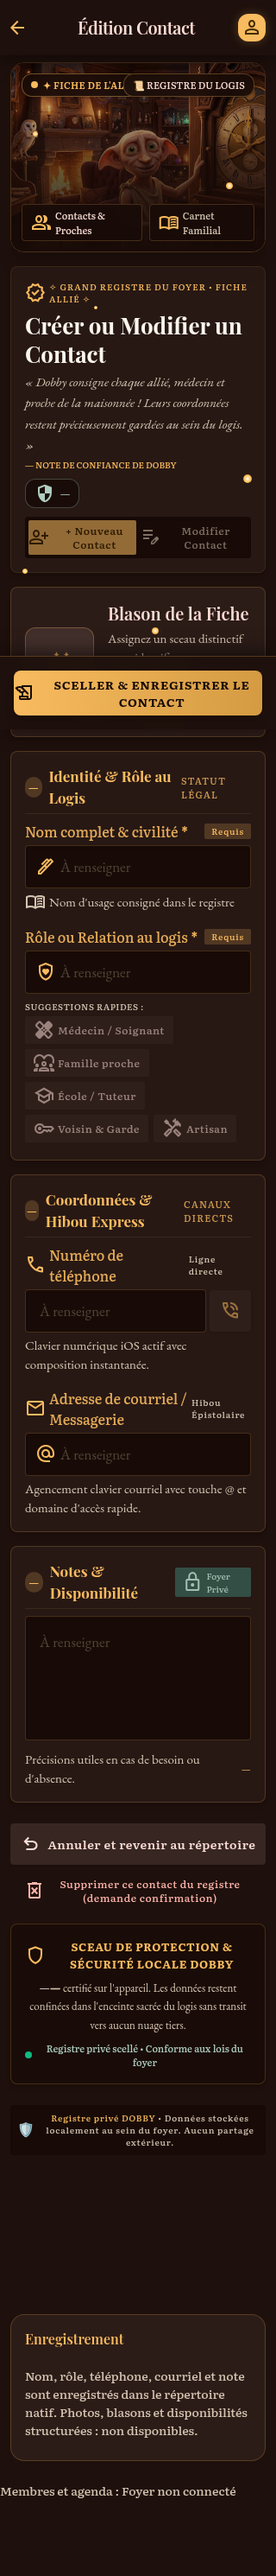
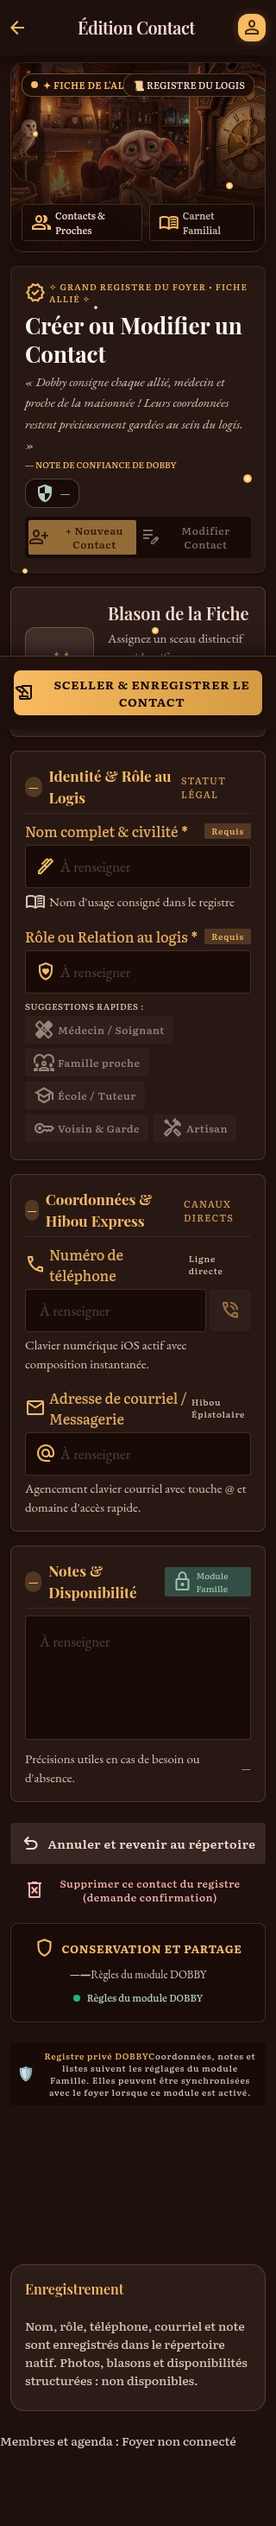
fix(stitch): align contact disclosures with native family sharing

diff --git a/essai-stitch-v7/family-register.js b/essai-stitch-v7/family-register.js
@@ -11,6 +11,7 @@
  function clearEmpty(){for(const e of all('main [id*=empty],main [id*=Empty]'))e.remove();}
  function hideFilters(reason){for(const b of all('main button'))if(/Tous|Proches|Praticiens|Artisans|Épingl|Archives|Tout ouvrir|Tout sceller|Catégor/.test(b.textContent)&&!b.dataset.faAction)context.unavailable(b,reason);}
  function meta(scope){q('main [data-rg-state]')?.remove();const el=box('Enregistrement');el.dataset.rgState='true';el.append(note(scope));if(['contacts','lists','list-detail'].includes(context.ui.view)){el.append(button('account','Gérer le foyer'));el.append(button('family-sync','Synchroniser le module Famille'));if(/conflit/i.test(context.data.status))el.append(button('family-server','Conserver la version du foyer'),button('family-local','Conserver mes modifications'));}context.main.append(el);}
+ function sourcePolicy(view,root=context.main){const local=['memos','memo-edit'].includes(view),policy=local?'Titre, texte et mots-clés restent dans les mémos locaux de cet appareil. Ces mémos ne sont pas partagés par le module Famille.':'Coordonnées, notes et listes suivent les réglages du module Famille. Elles peuvent être synchronisées avec le foyer lorsque ce module est activé.';const walk=document.createTreeWalker(root,NodeFilter.SHOW_TEXT);let node;while(node=walk.nextNode()){const value=node.textContent.replace(/\s+/g,' ').trim();if(/SCEAU DE PROTECTION.*LOCALE DOBBY/i.test(value))node.textContent='Conservation et partage';else if(/Foyer Privé/i.test(value))node.textContent=local?'Mémo local':'Module Famille';else if(/Registre privé scellé|certifié sur l.appareil|Conforme aux lois du foyer/i.test(value))node.textContent='Règles du module DOBBY';else if(/restent confinées|sans transit|Aucun partage extérieur|Données stockées localement/i.test(value))node.textContent=policy;}}
  function setTitle(value){const h=q('main h1')||q('main h2');if(h)h.textContent=value;}
  function formButtons(){R.saveButton();for(const b of all('main button,#fa-supplement button')){if(b.dataset.faAction)continue;if(/Annuler|Revenir|Retour/.test(b.textContent))bind(b,'rg-back');if(/Supprimer|Biffer cette mention/.test(b.textContent))bind(b,'rg-delete');}}
  function contacts(data){clearEmpty();const container=q('#contactsContainer');container.replaceChildren();const roles=[...new Set(data.state.famContacts.map(row=>row.role).filter(Boolean))];if(!roles.includes(contactRole))contactRole='';const allButton=all('main button').find(b=>R.plain(b).startsWith('Tous'));if(allButton)R.facet(allButton.parentElement,roles,contactRole,'rg-contact-role','Tous ('+data.state.famContacts.length+')');const rows=data.state.famContacts.filter(r=>(!contactRole||r.role===contactRole)&&[r.name,r.role,r.note,r.phone,r.email].join(' ').toLocaleLowerCase('fr').includes(filter.contacts.toLocaleLowerCase('fr')));
@@ -25,8 +26,8 @@
  function listDetail(data){const row=requireRow(data.state.famLists,context.ui.record);if(!row){context.main.replaceChildren(note('Choisissez une liste dans le registre.'),button('lists','Mes listes'));return;}context.main.dataset.rgListSnapshot=JSON.stringify(row.items);context.main.dataset.rgListId=row.id;setTitle(row.name);const pending=q('#sectionPending'),done=q('#sectionDone');for(const [container,completed]of [[pending,false],[done,true]]){if(!container)continue;container.replaceChildren(note(completed?'Éléments cochés':'Éléments à traiter'));row.items.forEach((item,index)=>{if(item.done!==completed)return;container.append(card(completed?'.done-card':'.todo-card',item.name,[],[button('rg-item-toggle',item.done?'Rouvrir':'Cocher',{index:String(index),record:row.id}),button('rg-item-remove','Retirer',{index:String(index),record:row.id})]));});if(!row.items.some(i=>i.done===completed))container.append(note('Aucun élément.'));}const form=q('#quickAddForm');if(form){form.before(button('rg-list-refresh','Actualiser cette liste',{record:row.id}));form.addEventListener('submit',e=>{e.preventDefault();R.run(addItem);});q('#itemInput').maxLength=160;form.append(button('rg-item-add','Ajouter à la liste'));}for(const b of all('main button,#fa-supplement button'))if(/Revenir aux listes/.test(b.textContent))bind(b,'lists');for(const sec of all('main section'))if(sec.textContent.includes('Aperçu : Si la besace'))sec.remove();meta('Liste du module Famille · '+data.status+'. Les coches restent enregistrées avec le gestionnaire existant.');}
  function ensureListSnapshot(id,element){const row=E.read().state.famLists.find(r=>r.id===id),main=element.closest('main');if(!row||main?.dataset.rgListId!==id||main.dataset.rgListSnapshot!==JSON.stringify(row.items))throw Error('Cette liste a été modifiée depuis son affichage. Actualisez-la avant de cocher ou de retirer un élément.');}
  function addItem(){const value=q('#itemInput')?.value.trim();if(!value)throw Error('Indiquez un élément.');nativeList(context.ui.record);E.win().document.getElementById('xListInput').value=value;E.action('extra','listadd',{id:context.ui.record});return target('list-detail',context.ui.record);}
- function newList(){const old=q('#rg-list-create-box');if(old){q('#list-name')?.focus();return;}for(const node of all('#new-list-form'))node.remove();const proto=q('#new-list-form',context.pristine);if(!proto)throw Error('Formulaire Stitch introuvable.');const form=document.importNode(proto,true);form.id='rg-form';form.dataset.sourceForm='new-list-form';const panel=box('Créer une liste');panel.id='rg-list-create-box';panel.append(form);const input=q('#list-name',form);input.name='name';input.value='';input.required=true;input.maxLength=140;for(const el of all('input[type=radio],select',form))context.unavailable(el,'Catégorie et attribution non enregistrées.');form.append(button('rg-list-create','Créer la liste'));context.main.prepend(panel);form.addEventListener('submit',e=>{e.preventDefault();R.run(createList);});input.focus();}
+ function newList(){const old=q('#rg-list-create-box');if(old){q('#list-name')?.focus();return;}for(const node of all('#new-list-form'))node.remove();const proto=q('#new-list-form',context.pristine);if(!proto)throw Error('Formulaire Stitch introuvable.');const form=document.importNode(proto,true);sourcePolicy('lists',form);form.id='rg-form';form.dataset.sourceForm='new-list-form';const panel=box('Créer une liste');panel.id='rg-list-create-box';panel.append(form);const input=q('#list-name',form);input.name='name';input.value='';input.required=true;input.maxLength=140;for(const el of all('input[type=radio],select',form))context.unavailable(el,'Catégorie et attribution non enregistrées.');form.append(button('rg-list-create','Créer la liste'));context.main.prepend(panel);form.addEventListener('submit',e=>{e.preventDefault();R.run(createList);});input.focus();}
  function createList(){const input=q('#list-name');if(!input?.reportValidity())return;if(!input.value.trim())throw Error('Indiquez un nom de liste.');const before=E.read().state.famLists.map(x=>x.id);nativeList();E.submit('xListForm',{name:input.value});const row=E.read().state.famLists.find(x=>!before.includes(x.id));if(!row)throw Error('La liste n’a pas été créée.');return target('list-detail',row.id);}
  function remove(kind,id){if(kind==='contact')E.deleteContact(id);else if(kind==='memo'){nativeNotes(id);E.action('doc','deletenote',{id});}else{nativeList();E.action('extra','listdelete',{id});}return target(kind==='contact'?'contacts':kind==='memo'?'memos':'lists');}
- R.register({views,back(view){return target(view==='contact-edit'?'contacts':view==='memo-edit'?'memos':view==='list-detail'?'lists':'salon');},render(view,c){context=c;if((view==='contact-edit'&&c.ui.record&&!c.data.state.famContacts.some(x=>x.id===c.ui.record))||(view==='memo-edit'&&c.ui.record&&!c.data.state.familyNotes.some(x=>x.id===c.ui.record))||(view==='list-detail'&&c.ui.record&&!c.data.state.famLists.some(x=>x.id===c.ui.record))){c.ui.record=null;c.main.replaceChildren(note('Contact, mémo ou liste introuvable : cette fiche n’existe plus.'),button(view==='contact-edit'?'contacts':view==='memo-edit'?'memos':'lists','Revenir au registre'));return;}({contacts, 'contact-edit':contactEdit,memos,'memo-edit':memoEdit,lists,'list-detail':listDetail})[view](c.data);},act(action,el,c){context={...context,...c};const id=el.dataset.record||context.ui.record;if(action==='rg-memo-query-clear'){filter.memos='';return memos(E.read());}if(action==='rg-contact-query-clear'){filter.contacts='';return contacts(E.read());}if(action==='rg-contact-role'){contactRole=el.dataset.value;return contacts(E.read());}if(action==='rg-back')return target(context.ui.view.startsWith('contact')?'contacts':context.ui.view.startsWith('memo')?'memos':'lists');if(action==='rg-contact-new')return target('contact-edit');if(action==='rg-memo-new')return target('memo-edit');if(action==='rg-contact-edit')return target('contact-edit',id);if(action==='rg-memo-edit')return target('memo-edit',id);if(action==='rg-list-open')return target('list-detail',id);if(action==='rg-list-refresh'){const draft=q('#itemInput')?.value||'';return context.open('list-detail',{record:id},false).then(()=>{const input=q('#itemInput');if(input)input.value=draft;});}if(action==='rg-list-new')return newList();if(action==='rg-list-create')return createList();if(action==='rg-item-add')return addItem();if(action==='rg-item-remove'){ensureListSnapshot(id,el);nativeList(id);E.action('extra','listremove',{id,i:el.dataset.index});return target('list-detail',id);}if(action==='rg-item-toggle'){ensureListSnapshot(id,el);nativeList(id);const check=E.win().document.querySelector('[data-list-check][data-i="'+Number(el.dataset.index)+'"]');if(!check)throw Error('Élément introuvable.');check.checked=!check.checked;check.dispatchEvent(new (E.win().Event)('change',{bubbles:true}));return target('list-detail',id);}if(action==='rg-delete')return remove(context.ui.view.startsWith('contact')?'contact':'memo',id);if(action==='rg-contact-delete')return remove('contact',id);if(action==='rg-memo-delete')return remove('memo',id);if(action==='rg-list-delete')return remove('list',id);},submit(form,c){context={...context,...c};const values=Object.fromEntries(new FormData(form));if(c.ui.view==='contact-edit'){E.saveContact(c.ui.record,values);window.DobbyFamilyStitch.discardDraft();filter.contacts='';contactRole='';return target('contacts');}if(c.ui.view==='memo-edit'){nativeSaveMemo(c.ui.record,values);window.DobbyFamilyStitch.discardDraft();return target('memos');}return createList();}});
+ R.register({views,back(view){return target(view==='contact-edit'?'contacts':view==='memo-edit'?'memos':view==='list-detail'?'lists':'salon');},render(view,c){context=c;sourcePolicy(view);if((view==='contact-edit'&&c.ui.record&&!c.data.state.famContacts.some(x=>x.id===c.ui.record))||(view==='memo-edit'&&c.ui.record&&!c.data.state.familyNotes.some(x=>x.id===c.ui.record))||(view==='list-detail'&&c.ui.record&&!c.data.state.famLists.some(x=>x.id===c.ui.record))){c.ui.record=null;c.main.replaceChildren(note('Contact, mémo ou liste introuvable : cette fiche n’existe plus.'),button(view==='contact-edit'?'contacts':view==='memo-edit'?'memos':'lists','Revenir au registre'));return;}({contacts, 'contact-edit':contactEdit,memos,'memo-edit':memoEdit,lists,'list-detail':listDetail})[view](c.data);},act(action,el,c){context={...context,...c};const id=el.dataset.record||context.ui.record;if(action==='rg-memo-query-clear'){filter.memos='';return memos(E.read());}if(action==='rg-contact-query-clear'){filter.contacts='';return contacts(E.read());}if(action==='rg-contact-role'){contactRole=el.dataset.value;return contacts(E.read());}if(action==='rg-back')return target(context.ui.view.startsWith('contact')?'contacts':context.ui.view.startsWith('memo')?'memos':'lists');if(action==='rg-contact-new')return target('contact-edit');if(action==='rg-memo-new')return target('memo-edit');if(action==='rg-contact-edit')return target('contact-edit',id);if(action==='rg-memo-edit')return target('memo-edit',id);if(action==='rg-list-open')return target('list-detail',id);if(action==='rg-list-refresh'){const draft=q('#itemInput')?.value||'';return context.open('list-detail',{record:id},false).then(()=>{const input=q('#itemInput');if(input)input.value=draft;});}if(action==='rg-list-new')return newList();if(action==='rg-list-create')return createList();if(action==='rg-item-add')return addItem();if(action==='rg-item-remove'){ensureListSnapshot(id,el);nativeList(id);E.action('extra','listremove',{id,i:el.dataset.index});return target('list-detail',id);}if(action==='rg-item-toggle'){ensureListSnapshot(id,el);nativeList(id);const check=E.win().document.querySelector('[data-list-check][data-i="'+Number(el.dataset.index)+'"]');if(!check)throw Error('Élément introuvable.');check.checked=!check.checked;check.dispatchEvent(new (E.win().Event)('change',{bubbles:true}));return target('list-detail',id);}if(action==='rg-delete')return remove(context.ui.view.startsWith('contact')?'contact':'memo',id);if(action==='rg-contact-delete')return remove('contact',id);if(action==='rg-memo-delete')return remove('memo',id);if(action==='rg-list-delete')return remove('list',id);},submit(form,c){context={...context,...c};const values=Object.fromEntries(new FormData(form));if(c.ui.view==='contact-edit'){E.saveContact(c.ui.record,values);window.DobbyFamilyStitch.discardDraft();filter.contacts='';contactRole='';return target('contacts');}if(c.ui.view==='memo-edit'){nativeSaveMemo(c.ui.record,values);window.DobbyFamilyStitch.discardDraft();return target('memos');}return createList();}});
 })();

diff --git a/docs/dobby-v7/FINAL-REVIEW.md b/docs/dobby-v7/FINAL-REVIEW.md
@@ -9,9 +9,9 @@ Une seule revue indépendante, en lecture seule, couvre `152cb89..9ee2d0c`. Aucu
 | Un index d’élément périmé après synchronisation ciblait un autre élément | Comparer la liste affichée à la liste native avant coche/retrait ; refuser l’ambiguïté, proposer une actualisation qui conserve le texte d’ajout non envoyé | `list-rg-item-toggle`, `list-rg-item-remove` |
 | Menu puis retour navigateur perdaient les modifications d’un formulaire | Brouillons transitoires par foyer/route/identifiant ; restaurer les champs modifiés sur les données natives récentes, sans fichier, ID caché ou contrôle désactivé | `menu-member-draft`, `menu-contact-draft`, `menu-medical-draft` ; note reçue du foyer conservée, dossier privé non partagé |
 | Une pièce jointe effaçait l’entretien en cours de saisie | Protéger le formulaire d’entretien du rafraîchissement de fond et conserver sa saisie lors de l’actualisation explicite des pièces | `maintenance-file-draft` : note/date/coche/prochaine date, aucun entretien enregistré automatiquement |
-| Les sources affirmaient une police active, un Grand Salon et une certification sans données correspondantes | Retirer le badge de statut non géré, lier la pièce au lieu natif, afficher le libellé réel de l’historique | `source-facts`, `maintenance-source-facts` : contrat échu et équipement Garage |
+| Les sources affirmaient une police active, un Grand Salon, une certification et un stockage Contacts exclusivement local sans données correspondantes | Retirer le badge de statut non géré, lier la pièce au lieu natif, afficher le libellé réel de l’historique et les règles effectives du module Famille | `source-facts`, `maintenance-source-facts`, `contact-sharing-disclosure` : contrat échu, équipement Garage et portée native des Contacts |
 
-Les treize scénarios ont échoué avant correction à 390 px, puis réussi à **320 et 390 px** (26 contrôles). Les 54 tests natifs réussissent. La validation générale locale réussit intégralement (code de sortie 0, aucun échec). Elle est exécutée avec `CHROMIUM_PATH=/usr/bin/chromium npm test --prefix essai-stitch-v7/tests`, `ci-scope.json.final=true` ; le statut et le SHA exacts de la CI finale sont publiés dans la PR #3 et le bilan de livraison. [Captures complémentaires](evidence/review/README.md), [comparaisons de toutes les sources](evidence/index.html).
+Les quatorze scénarios ont échoué avant correction à 390 px, puis réussi à **320 et 390 px** (28 contrôles). Les 54 tests natifs réussissent. La validation générale locale réussit intégralement (code de sortie 0, aucun échec). Elle est exécutée avec `CHROMIUM_PATH=/usr/bin/chromium npm test --prefix essai-stitch-v7/tests`, `ci-scope.json.final=true` ; le statut et le SHA exacts de la CI finale sont publiés dans la PR #3 et le bilan de livraison. [Captures complémentaires](evidence/review/README.md), [comparaisons de toutes les sources](evidence/index.html).
 
 La relecture a aussi vérifié les empreintes des 30 nouveaux templates et des 12 fichiers de runtime, les comptes 53/24/29 et l’absence de diff V5/originaux/SQL dans cette mission.
 
@@ -22,3 +22,5 @@ La présentation n’annule ni ne réécrit une opération IndexedDB déjà lanc
 ## Périmètres laissés hors qualification
 
 La restauration destructive et les comptes réels sont exclus par la demande. Les dépendances minifiées héritées sont contrôlées par leur provenance et leur chargeur, sans audit de sécurité exhaustif. Les détails métier Cuisine inchangés ne sont pas réaudités ; les routes partagées modifiées et les régressions générales sont vérifiées. Les fonctions natives absentes restent partielles, avec un état explicite. [Décisions et coûts](DECISIONS.md).
+
+Le contrôle visuel de clôture a complété le sixième constat avec les promesses de stockage Contacts exclusivement local. Ce scénario supplémentaire a échoué avant correction, puis réussi aux deux largeurs. Les textes sources sont neutralisés avant le raccordement des valeurs du foyer ; ils ne modifient ni les données ni le partage. Le parcours 2B, les comparaisons de ses six sources et la synchronisation native simulée ont été revérifiés après ce complément.

diff --git a/docs/dobby-v7/CHECKPOINTS.md b/docs/dobby-v7/CHECKPOINTS.md
@@ -65,8 +65,10 @@ Checkpoint d’implémentation lot 5 : `9ee2d0c536c4bd28861b4cd010c46111300ca7a2
 
 ## Revue finale et qualification générale
 
-La revue indépendante du checkpoint `9ee2d0c` a relevé six problèmes importants, tous reproduits avant correction puis vérifiés dans la même passe, à 320 et 390 px. Treize scénarios dédiés passent (26 contrôles), ainsi que les 54 tests natifs. [Constats, corrections et limites](FINAL-REVIEW.md), [preuves](evidence/review/README.md), [décisions](DECISIONS.md).
+La revue indépendante du checkpoint `9ee2d0c` a relevé six problèmes importants, tous reproduits avant correction puis vérifiés dans la même passe, à 320 et 390 px. Quatorze scénarios dédiés passent (28 contrôles), ainsi que les 54 tests natifs. [Constats, corrections et limites](FINAL-REVIEW.md), [preuves](evidence/review/README.md), [décisions](DECISIONS.md).
 
 La CI est désormais configurée pour exécuter l’ensemble des tests Cuisine/Famille/2B/Maison/Documents/outils, les synchronisations simulées, les contrôles de préservation, la navigation, les comparaisons mobiles et les régressions de la revue. Le résultat général et le SHA exact du commit de livraison seront reportés dans la description de la PR et son onglet [Checks](https://github.com/PortenartCo/dobby-demo/pull/3/checks), sans prétendre qualifier les comptes réels ou une restauration exécutée.
 
-La suite générale locale a terminé avec succès, code de sortie 0 : Cuisine, 2A, quatre lots restants, clients natifs/API simulée, extraction réelle PDF/OCR, préservation et navigation ; les 26 contrôles de revue passent. La génération de 59 fichiers est reproductible octet pour octet. La qualification CI automatique du candidat corrigé est l’étape externe suivante.
+La suite générale locale a terminé avec succès, code de sortie 0 : Cuisine, 2A, quatre lots restants, clients natifs/API simulée, extraction réelle PDF/OCR, préservation et navigation ; les 28 contrôles de revue passent. La génération de 59 fichiers est reproductible octet pour octet. La qualification CI automatique du candidat corrigé est l’étape externe suivante.
+
+Qualification générale du candidat corrigé `bb20998fb47dd89cca3e0977cc6d8804661949f2` : CI [PR — succès](https://github.com/PortenartCo/dobby-demo/actions/runs/42614964029), [push — succès](https://github.com/PortenartCo/dobby-demo/actions/runs/42614954366). Le contrôle visuel a ensuite corrigé le texte de conservation Contacts dans la même catégorie de revendications fictives. Les quatorze reproductions (28 contrôles), le parcours 2B, ses six comparaisons et le client de synchronisation simulé passent après ce complément. Le SHA de livraison et sa dernière CI générale sont publiés dans le bilan de PR #3 et son onglet Checks, sans commit documentaire auto-référentiel.

diff --git a/docs/dobby-v7/INTEGRATION.md b/docs/dobby-v7/INTEGRATION.md
@@ -128,6 +128,8 @@ Deux contrôles supplémentaires vérifient la saisie réelle au clavier dans la
 
 ## Revue finale des lots 2B–5
 
-[La revue indépendante](FINAL-REVIEW.md) a produit six constats importants, corrigés avec treize reproductions à 320/390. Les éditeurs refusent de recréer une fiche supprimée, les listes ne dispatchent plus un index devenu ambigu, les brouillons restent disponibles après menu/retour et ajout d’une pièce jointe, et les revendications fictives restantes sont retirées. Les brouillons sont uniquement en mémoire de présentation ; seuls les champs modifiés sont restaurés sur les données natives actuelles, sans nouvelle écriture métier ou stockage persistant. Les valeurs de fichier et contrôles cachés/désactivés sont exclus. Les écritures locales déjà en cours sont observées jusqu’à leur fin réelle ; la limite d’annulation/nettoyage native reste explicitement partielle.
+[La revue indépendante](FINAL-REVIEW.md) a produit six constats importants, corrigés avec quatorze reproductions à 320/390. Les éditeurs refusent de recréer une fiche supprimée, les listes ne dispatchent plus un index devenu ambigu, les brouillons restent disponibles après menu/retour et ajout d’une pièce jointe, et les revendications fictives restantes sont retirées. Les brouillons sont uniquement en mémoire de présentation ; seuls les champs modifiés sont restaurés sur les données natives actuelles, sans nouvelle écriture métier ou stockage persistant. Les valeurs de fichier et contrôles cachés/désactivés sont exclus. Les écritures locales déjà en cours sont observées jusqu’à leur fin réelle ; la limite d’annulation/nettoyage native reste explicitement partielle.
 
 Le bilan fonctionnel reste **53 sources actives, 24 fonctionnelles et 29 partielles**. [La CI de la PR #3](https://github.com/PortenartCo/dobby-demo/pull/3/checks) et son bilan de livraison donnent le SHA exact et le résultat général final. La branche et la PR restent ouvertes ; aucune fusion ou mise en production n’est autorisée par cette mission.
+
+Les mentions de confidentialité Contacts/Mémos/Listes sont liées aux règles du module : les coordonnées, notes et listes peuvent être synchronisées avec le foyer quand Famille est activé ; les mémos restent locaux. Aucune promesse source de stockage Contacts exclusivement local, de certification ou de chiffrement n’est conservée. La neutralisation intervient avant les valeurs du foyer, qui restent intactes.

diff --git a/docs/dobby-v7/evidence/review/README.md b/docs/dobby-v7/evidence/review/README.md
@@ -1,6 +1,6 @@
 # Preuves des corrections de la revue finale
 
-Profils Chromium éphémères, aucun compte réel. `tests/register-review.cjs` couvre treize scénarios aux deux largeurs. Les écritures/fichiers sont ceux des gestionnaires et de l’IndexedDB natives, pas un stockage de remplacement.
+Profils Chromium éphémères, aucun compte réel. `tests/register-review.cjs` couvre quatorze scénarios aux deux largeurs. Les écritures/fichiers sont ceux des gestionnaires et de l’IndexedDB natives, pas un stockage de remplacement.
 
 | État | 320 px | 390 px |
 |---|---|---|
@@ -9,3 +9,5 @@ Profils Chromium éphémères, aucun compte réel. `tests/register-review.cjs` c
 | Équipement Garage, sans statut/certification fictifs | [Capture](source-facts-320.png) | [Capture](source-facts-390.png) |
 
 Les assertions vérifient aussi les refus de recréation, l’absence de mutation d’un autre élément de liste, les brouillons membre/médical, la portée privée et la fin du verrou après suppression/remplacement d’une fiche pendant le vrai stockage local. Le résultat complet de la suite générale est conservé dans les artefacts CI.
+
+Le scénario `contact-sharing-disclosure` interdit les promesses de conservation exclusivement locale dans un répertoire que le module Famille peut synchroniser. Les règles natives et les données restent inchangées.

diff --git a/docs/superpowers/plans/2026-11-09-dobby-remaining-stitch.md b/docs/superpowers/plans/2026-11-09-dobby-remaining-stitch.md
@@ -53,6 +53,8 @@
 **Interfaces:** Native mission, search, personal/settings/menu/chat handlers through same engine; unsupported conversation capabilities explicit.
 - [x] Write/run failing source navigation/mission create/edit/assign and search real-result routing assertions.
 - [x] Integrate remaining sources and both conversation variants to actual available contracts, without new conversational engine.
-- [ ] Run targeted tests/captures at 320/390 and full cross-domain navigation/back/reload, shared regressions and final CI. Expected PASS.
+- [x] Run targeted tests/captures at 320/390 and full cross-domain navigation/back/reload, shared regressions and the general checkpoint CI. Expected PASS.
 - [x] Final fresh-context whole-mission review; one fix pass with RED→GREEN for important findings, then green relevant suites.
-- [ ] Final manifest counts, exact remaining/partial list and reasons, checkpoints and visual index; commits/push/PR #3 update and final-SHA CI proof. Stop.
+- [x] Final manifest counts, exact remaining/partial list and reasons, checkpoints and visual index.
+
+External delivery gate: push the final candidate into PR #3, verify its exact-head general CI, and record SHA/check URLs in the mutable PR description and delivery message. The committed plan cannot embed its own future check result. Stop after that gate.

diff --git a/docs/dobby-v7/DECISIONS.md b/docs/dobby-v7/DECISIONS.md
@@ -28,4 +28,6 @@ La demande utilisateur prime sur les procédures des compétences. Les arbitrage
 
 - Final: Ruling: finishing skill choice is already made by the user — push the existing PR branch, preserve checkout, never merge/deploy; no redundant permission menu — cost: integration remains for the user.
 
+- Final: Ruling: immutable code/docs cannot embed their own future final SHA/check result — record exact live completion in PR description and delivery; checkpoint keeps prior fully verified SHA — cost: final current-head CI is followed through PR Checks, not a self-referential committed SHA.
+
 Aucun mineur distinct différé n’a été relevé par la revue finale. Les fonctions manquantes, illustrations inaccessibles, essais sur comptes réels et exécution de restauration ne sont pas déclarés terminés ; voir [SOURCE-STATUS.md](SOURCE-STATUS.md) et [FINAL-REVIEW.md](FINAL-REVIEW.md).
